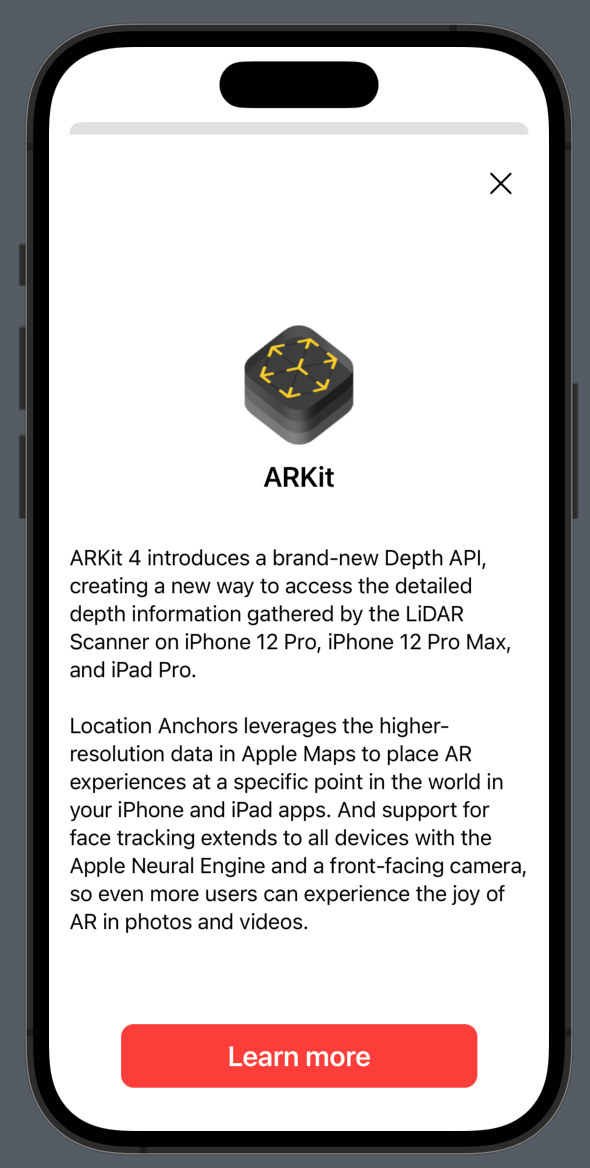
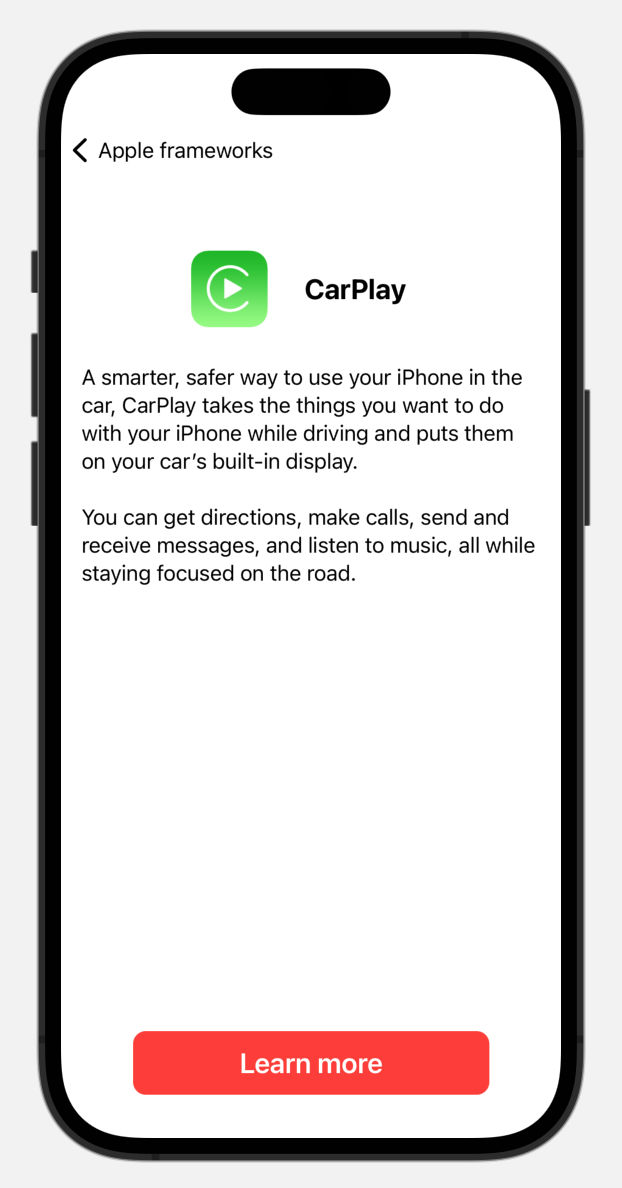
Conversion to list view

diff --git a/Apple frameworks/FrameworkGridView.swift b/Apple frameworks/FrameworkGridView.swift
@@ -13,22 +13,19 @@ struct FrameworkGridView: View {
     
     var body: some View {
         NavigationView {
-            ScrollView{
-                LazyVGrid(columns: viewModel.columns) {
-                    ForEach(MockData.frameworks, id: \.id){
-                        framework in frameworkTitleView(framework: framework)
-                            .onTapGesture {
-                                viewModel.selectedFramework = framework
-                            }
+            List {
+                ForEach(MockData.frameworks, id: \.id){
+                    framework in
+                    NavigationLink(destination:
+                                    FrameworkDetailedView(framework: framework,
+                                                          isShowingDetailedView: $viewModel.isShowingDetailView)){
+                        frameworkTitleView(framework: framework)
                     }
                 }
             }
             .navigationTitle("Apple frameworks")
-            .sheet(isPresented: $viewModel.isShowingDetailView){
-                FrameworkDetailedView(framework: viewModel.selectedFramework ?? MockData.sampleFramework,
-                                      isShowingDetailedView: $viewModel.isShowingDetailView)
-            }
         }
+        .accentColor(Color(.label))
     }
 }
 

diff --git a/Apple frameworks/FrameworkTitleView.swift b/Apple frameworks/FrameworkTitleView.swift
@@ -8,21 +8,29 @@
 import Foundation
 import SwiftUI
 
-struct frameworkTitleView:View {
+struct frameworkTitleView: View {
     let framework: Framework
     
     var body: some View{
-        VStack{
+        HStack(){
             Image(framework.imageName)
                 .symbolRenderingMode(.multicolor)
                 .resizable()
                 .aspectRatio(contentMode: .fit)
-                .frame(width: 100, height: 100)
+                .frame(width: 70, height: 70)
             Text(framework.name)
                 .font(.title2)
-                .fontWeight(.semibold)
+                .fontWeight(.bold)
                 .scaledToFit()
                 .minimumScaleFactor(0.6)
-        }.padding()
+                .padding()
+            Image(systemName: "sun")
+        }
+    }
+}
+
+struct frameworkTitleView_preview: PreviewProvider {
+    static var previews: some View {
+        frameworkTitleView(framework: MockData.sampleFramework)
     }
 }

diff --git a/Apple frameworks/FrameworkGridViewModel.swift b/Apple frameworks/FrameworkGridViewModel.swift
@@ -15,8 +15,6 @@ final class FrameworkGridViewModel: ObservableObject {
     
     @Published var isShowingDetailView = false
     
-    let columns: [GridItem] = [GridItem(.flexible()),
-                               GridItem(.flexible()),
-                               GridItem(.flexible())]
+    let columns: [GridItem] = [GridItem(.flexible())]
     
 }

diff --git a/Apple frameworks/FrameworkDetailedView.swift b/Apple frameworks/FrameworkDetailedView.swift
@@ -14,8 +14,6 @@ struct FrameworkDetailedView: View {
     
     var body: some View {
         VStack {
-            XDismissButton(isShowingDetailedView: $isShowingDetailedView)
-            Spacer()
             frameworkTitleView(framework: framework)
             Text(framework.description)
                 .font(.body)
